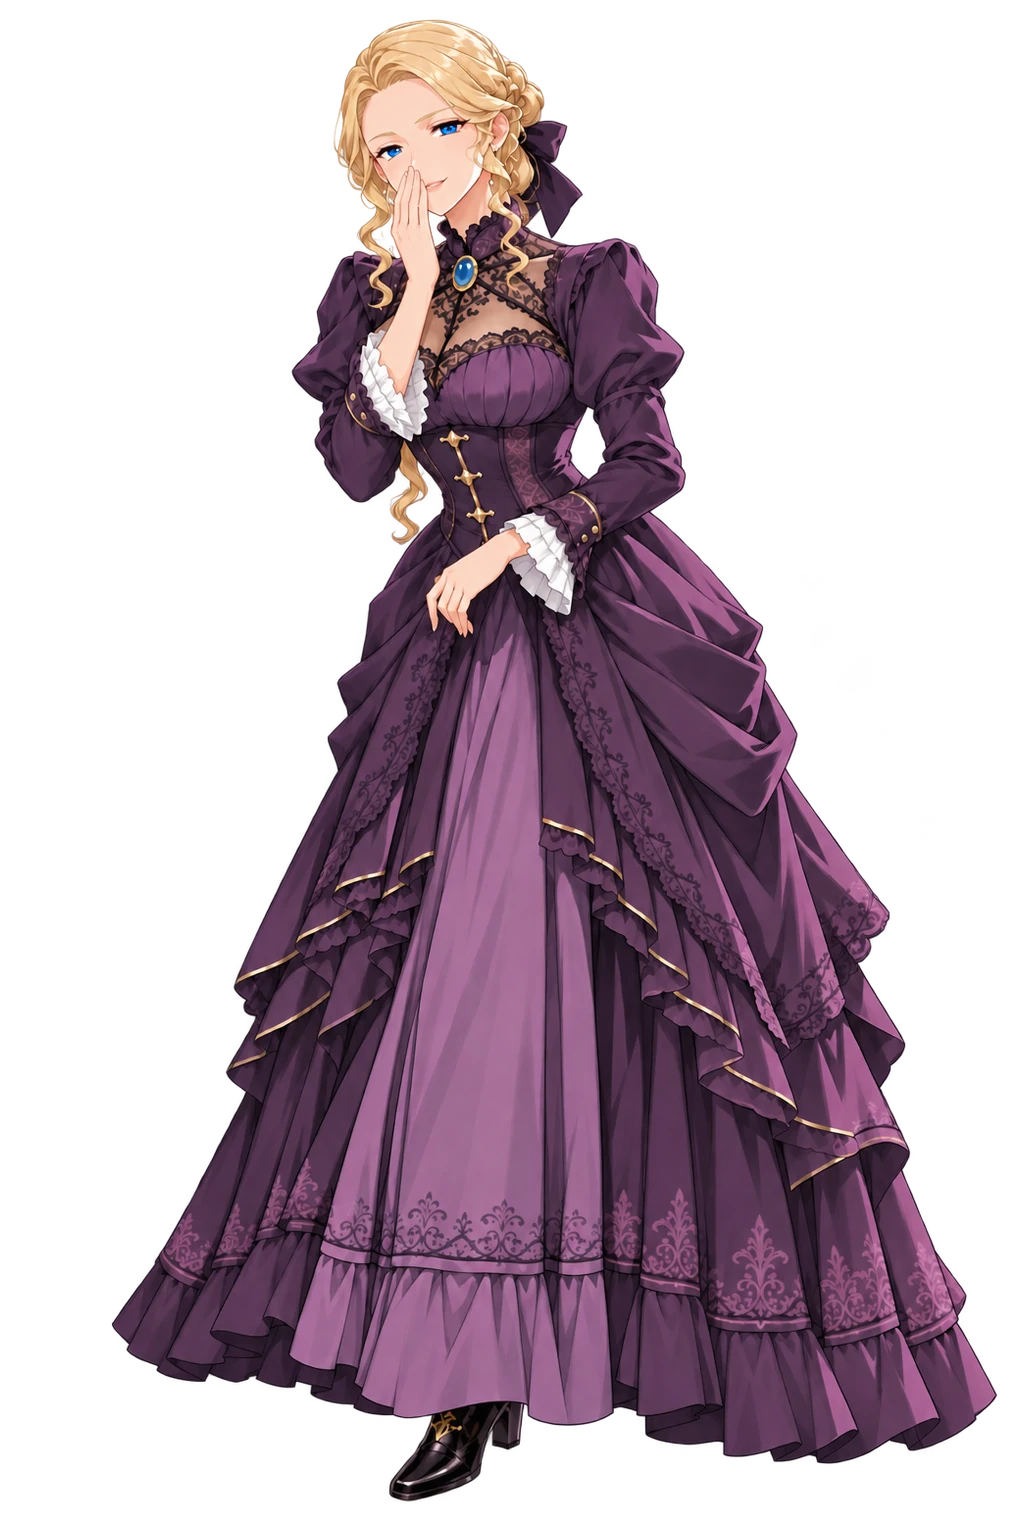
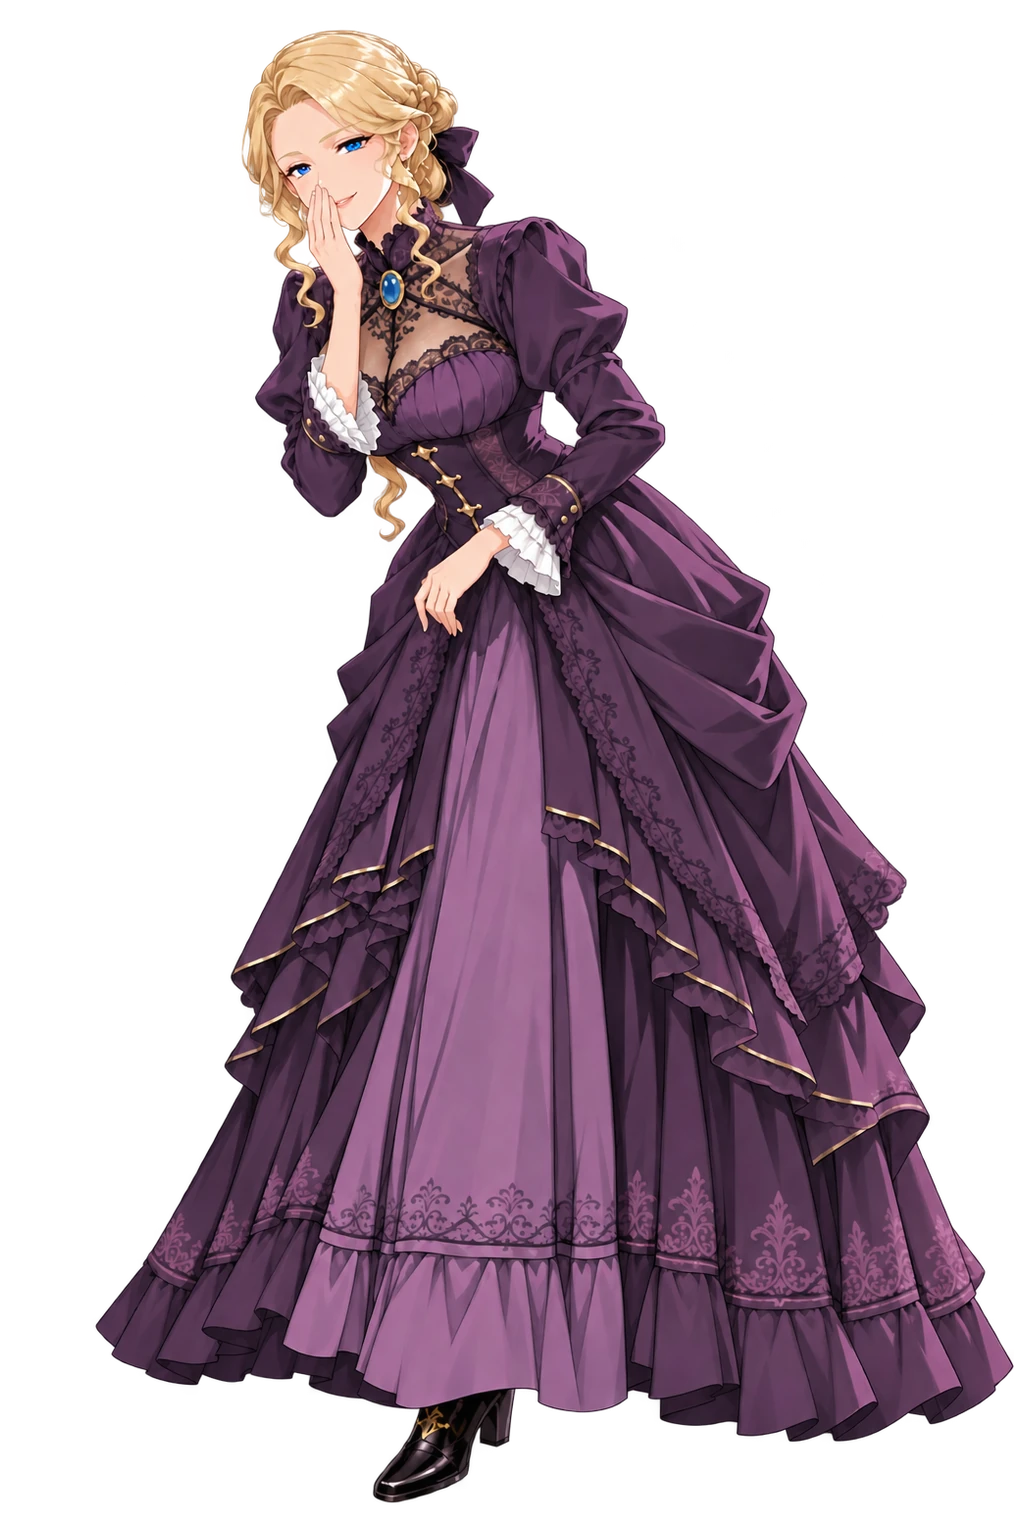
art: 茉莉 whisper 加大側傾（Ray 10-12），眼睛照舊調藍

Changed region(s): [[0.0938, 0.0, 1.0, 1.0]]

diff --git a/resources/si/_molly_robert_aaron_spec.md b/resources/si/_molly_robert_aaron_spec.md
@@ -54,6 +54,7 @@
 - **產法**：front ＝ 以 v2 front 為底「只改髮型」。差分 ＝ 每張一個新對話，上傳 **v3 raw front（髮型臉服裝的標準）＋ v2 舊差分的調色前版本**（`_vela_v2/_eye_before/`，只拿來參考姿勢與表情 —— 用調色前的才不會把藍再疊一次）。
   ⚠ 15 張裡有 8 張第一次回來是**畫上去的棋盤格（RGB）**，同串補一句「100% 保留，只把背景變成真正透明的 Alpha PNG」全部一次過。
 - **後製**（全組同一套）：① 以畫布中心 **×0.98** 縮放（有幾張頭頂貼邊 0~2px，縮完頭頂 ≥15px）② 虹膜調藍：頭部帶內藍色像素（H 180~245°、S>0.15）**S×1.9、V×1.2**（同 v2 的係數）；閉眼的 eyesmile／closedtalk 幾乎無變化。
+- `whisper` 重畫過一次（Ray：「再多傾一點，眼睛是藍色」）：同串以上一版為底只加大側傾；第一版 raw 留在 `_vela_v3/_raw_molly_si_whisper_lean1.png`、webp 進 `_recycle/`。裙襬最尖端貼到右緣（只 4px），不算裁切。
 - 試作與比較圖：`resources/si/npc/_trial/`（`npc_molly_si_v3_front`＝被否決的後梳版、`npc_molly_si_glasses_front`＝被否決的眼鏡版、`_molly_v3_faces.jpg`／`_molly_v3_sheet.jpg`＝定稿 15 張總覽）。
 - ⚠ 程式端：茉莉目前**還沒接進 `speakers.js`**（grep 不到 `molly_si`），所以這次同名覆蓋沒有快取問題；接的時候 `top/bot/fx` 照 v3 量（×0.98 之後的數字）。
 
